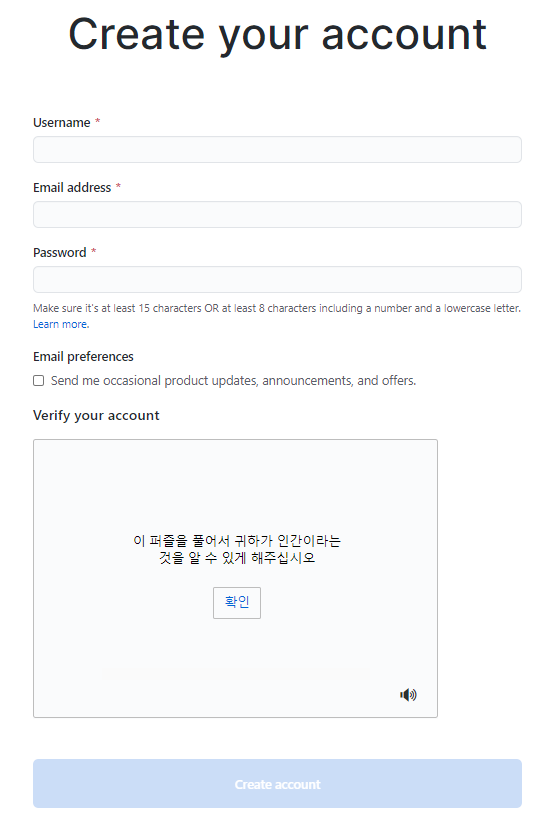
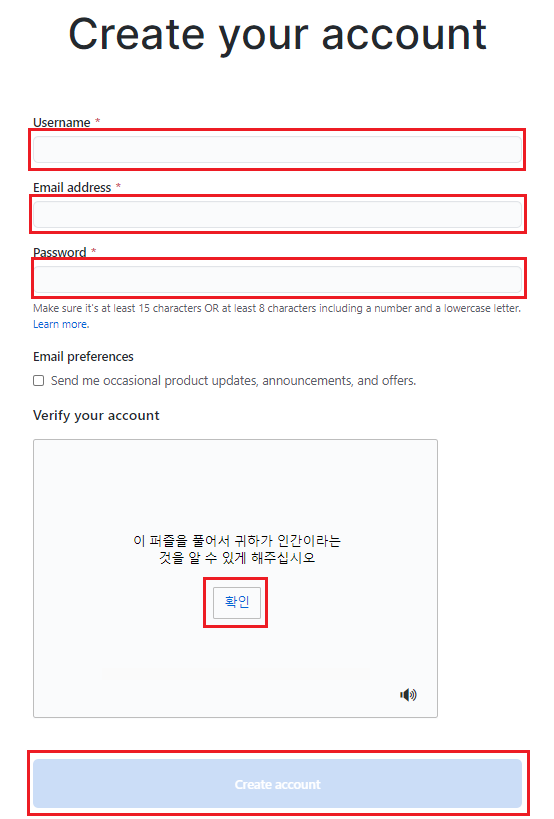
2021-03-10 github 가입하기 추가

diff --git a/_posts/git/2021-03-10-git-3.md b/_posts/git/2021-03-10-git-3.md
@@ -1,0 +1,191 @@
+---
+title: "[Git] Git 기본 명령어"
+categories: git
+tags: git
+toc: true
+---
+
+## Intro
+Git도 설치했고 Github로 원격저장소도 만들었으니 Git bash을 이용하여 기본 명령어들을 사용해보도록 하겠습니다. <br> (명령어는 계속 추가 할 계획 입니다.)
+
+
+## Git 버전 확인 (version)
+```java
+$ git version
+=> git version 2.27.0.windows.1
+```
+
+## Git 도움말 (help)
+```java
+$ git help
+=> usage: git [--version] [--help] [-C <path>] [-c <name>=<value>]
+           [--exec-path[=<path>]] [--html-path] [--man-path] [--info-path]
+           [-p | --paginate | -P | --no-pager] [--no-replace-objects] [--bare]
+           [--git-dir=<path>] [--work-tree=<path>] [--namespace=<name>]
+           <command> [<args>]
+
+These are common Git commands used in various situations:
+
+start a working area (see also: git help tutorial)
+   clone             Clone a repository into a new directory
+   init              Create an empty Git repository or reinitialize an existing one
+
+work on the current change (see also: git help everyday)
+   add               Add file contents to the index
+   mv                Move or rename a file, a directory, or a symlink
+   restore           Restore working tree files
+   rm                Remove files from the working tree and from the index
+   sparse-checkout   Initialize and modify the sparse-checkout
+
+examine the history and state (see also: git help revisions)
+   bisect            Use binary search to find the commit that introduced a bug
+   diff              Show changes between commits, commit and working tree, etc
+   grep              Print lines matching a pattern
+   log               Show commit logs
+   show              Show various types of objects
+   status            Show the working tree status
+
+grow, mark and tweak your common history
+   branch            List, create, or delete branches
+   commit            Record changes to the repository
+   merge             Join two or more development histories together
+   rebase            Reapply commits on top of another base tip
+   reset             Reset current HEAD to the specified state
+   switch            Switch branches
+   tag               Create, list, delete or verify a tag object signed with GPG
+
+collaborate (see also: git help workflows)
+   fetch             Download objects and refs from another repository
+   pull              Fetch from and integrate with another repository or a local branch
+   push              Update remote refs along with associated objects
+
+'git help -a' and 'git help -g' list available subcommands and some
+concept guides. See 'git help <command>' or 'git help <concept>'
+to read about a specific subcommand or concept.
+See 'git help git' for an overview of the system.
+```
+
+## Git 로컬저장소 생성하기 (init)
+```java
+$ git init
+=> Initialized empty Git repository in C:/AksStudio/repository/study/.git/
+```
+- 아래와 같이 해당 폴더에 .git 파일이 생성 됩니다. <br> (해당 폴더가 안보일 경우 폴더 내 숨김옵션 활성화 필요) <br>
+<img src="/assets/images/git/git-17.png">
+
+- .git 폴더에는 Git 생성한 버전들의 정보, 원격저장소 주소 등 설정정보가 있습니다.
+- 통상 이를 "로컬저장소" 라고 부릅니다.
+
+## Git 설정정보 확인 및 변경하기 (config)
+```java
+# 설정 정보 목록 확인
+$ git config --list
+=> diff.astextplain.textconv=astextplain
+filter.lfs.clean=git-lfs clean -- %f
+filter.lfs.smudge=git-lfs smudge -- %f
+filter.lfs.process=git-lfs filter-process
+filter.lfs.required=true
+http.sslbackend=openssl
+http.sslcainfo=C:/Program Files/Git/mingw64/ssl/certs/ca-bundle.crt
+core.autocrlf=true
+core.fscache=true
+core.symlinks=false
+pull.rebase=false
+credential.helper=manager
+filter.lfs.process=git-lfs filter-process
+filter.lfs.required=true
+filter.lfs.clean=git-lfs clean -- %f
+filter.lfs.smudge=git-lfs smudge -- %f
+user.name=Aks
+user.email=45597561+dhk5646@users.noreply.github.com
+core.autocrlf=true
+core.repositoryformatversion=0
+core.filemode=false
+core.bare=false
+core.logallrefupdates=true
+core.symlinks=false
+core.ignorecase=true
+
+# user.email 설정정보 변경 하기
+$ git config --global user.email "dhk5646@gmail.com"
+```
+
+## Git 로컬저장소 소스목록 추가하기 (add)
+
+```java
+# 추가할 간단한 샘플 파일 생성 하기
+echo "# study" >> README.md
+
+# 소스목록 추가하기
+$ git add README.md
+```
+
+## Git 로컬저장소 소스 올리기 (commit)
+```java
+$ git commit -m "커밋 설명"
+=> [master (root-commit) cdf9734] 커밋 설명
+ 1 file changed, 1 insertion(+)
+ create mode 100644 README.md
+```
+- m 옵션은 message
+
+## Git 커밋 이력 확인하기 (log)
+```java
+$ git log
+=> commit cdf9734c95b67ba35ad62d81a194a1eeb57255df (HEAD -> master)
+Author: Aks <dhk5646@gmail.com>
+Date:   Wed Mar 10 22:16:22 2021 +0900
+
+    커밋 설명
+```
+
+## Git 원하는 시점으로 파일 이동하기 (checkout)
+```java
+# 가장 최신 revision 으로 이동
+$ git checkout -
+
+# 원하는 revision 으로 이동
+$ git checkout 리비전정보
+```
+
+## Git 원격저장소 주소 연동 및 끊기 (remote)
+```java
+# 원격저장소 주소 연동 하기
+$ git remote add origin https://github.com/aks0123/study.git
+
+# 원격저장소 주소 연동 끊기
+$ git remote rm origin
+```
+
+
+
+## Git 원격저장소 소스 올리기 (push)
+```java
+$ git push origin master
+=> Enumerating objects: 3, done.
+Counting objects: 100% (3/3), done.
+Writing objects: 100% (3/3), 224 bytes | 224.00 KiB/s, done.
+Total 3 (delta 0), reused 0 (delta 0), pack-reused 0
+To https://github.com/aks0123/study.git
+ * [new branch]      master -> master
+```
+- push 성공 후 깃허브 원격저장소에 커밋 내용 확인 !! 
+<img src="/assets/images/git/git-18.png">
+
+- 잠깐! **remote: Permission to** 오류가 발생했다면 <https://dhk5646.github.io/git/git-4>  참고!
+
+
+## Git 원격저장소 복제하기 (clone)
+```java
+$ git clone 원격저장소 주소 .
+```
+- 가장뒤에 . 은 현재 작업위치를 나타내며 현재 위치에 파일을 풀겠다는 내용입니다.
+- 만약 . 을 입력하지 않을 경우 gitTest/"해당위치에 다운로드됨"
+
+## Git 원격저장소 소스 내려받기 (pull)
+```java
+$ git pull origin master
+```
+- clone 이후 동기화 처리 후 원격저장소에 새로운 커밋이 있을 경우 로컬저장소로 내려받습니다.
+
+

diff --git a/_posts/git/2021-03-09-git-2.md b/_posts/git/2021-03-09-git-2.md
@@ -1,83 +1,35 @@
 ---
-title: "[Git] Git 기본 명령어"
+title: "[Git] 깃허브 (Github) 가입하고 원격저장소 생성하기"
 categories: git
 tags: git
 toc: true
 ---
+## 깃허브 란?
+- https://github.com/
+- Git으로 관리하는 프로젝트를 올려 둘 수 있는 세계 최대 규모의 Git 호스팅 사이트
+- 공개저장소 무료, 비공개 저장소는 작업자 3인 이하 무료, 그 외 유료
 
-## Git 버전 확인 (version)
-```java
-$ git version
-```
+## 깃허브 가입하기
 
-## Git 도움말 (help)
-```java
-$ git help
-```
+1. **https://github.com/join** 접속 
+- **username, Email address, Password** 입력 및 퍼즐 해결 후 **Create account** 클릭 합니다.
+<img src="/assets/images/git/git-10.png">
+2. 아래와 같은 설문에 답하고 **Complete setup** 클릭 합니다.
+<img src="/assets/images/git/git-11.png">
+3. 입력한 이메일로 인증요청 메일이 발송 되었습니다.
+<img src="/assets/images/git/git-12.png">
+4. 이메일 확인하여 **Verify email address** 클릭 하면 회원가입 끝!
+<img src="/assets/images/git/git-13.png">
 
-## Git 로컬저장소 생성하기 (init)
-```java
-$ git init
-```
-- 해당 폴더에 .git 생성되며 Git으로 생성한 버전들의 정보, 원격저장소 주소 등이 들어감
-- 통상적으로 "로컬저장소"라고 부름
+## 깃허브 원격저장소 생성하기
 
-## Git 기본정보 설정하기 (config)
-```java
-$ git config --
-$ git config --global user.email "이메일주소"
-$ git config --global user.name "이름"
-```
+1. 다음으로는 깃허브에 원격저장소를 만들어 보겠습니다. 깃허브 로그인 후 오른쪽 **+** 아이콘 클릭 후 **New repository** 선택합니다.
+<img src="/assets/images/git/git-14.png">
+2. **Repository name** (원격저장소 URL 접속정보로 사용될 값), **Description** (설명) 입력 후 **Public** (무료) 선택 후 **Create repository** 선택 합니다.
+<img src="/assets/images/git/git-15.png">
+3. 생성된 깃허브 원격저장소 주소가 아래와 같이 표시된다면 원격저장소 생성 끝!
+<img src="/assets/images/git/git-16.png">
 
-## Git 로컬저장소 소스목록 추가하기 (add)
-```java
-$ git add 소스명
-```
-
-## Git 로컬저장소 소스 올리기 (commit)
-```java
-$ git commit -m "커밋 내용"
-- m 옵션은 message
-```
-
-## Git 커밋 이력 확인하기 (log)
-```java
-$ git log
-```
-
-## Git 원하는 시점으로 파일 이동하기 (checkout)
-```java
-$ git checkout -
-```
-- 최신 revision으로 이동
-
-```java
-$ git checkout 리비전정보
-```
-- 원하는 revision으로 이동
-
-## Git 원격저장소 주소 연동하기 (remote)
-```java
-$ git remote add origin 원격저장소 주소
-```
-
-## Git 원격저장소 소스 올리기 (push)
-```java
-$ git push origin master
-```
-
-## Git 원격저장소 복제하기 (clone)
-```java
-$ git clone 원격저장소 주소 .
-```
-- 가장뒤에 . 은 현재 작업위치를 나타내며 현재 위치에 파일을 풀겠다는 내용입니다.
-- 만약 . 을 입력하지 않을 경우 gitTest/"해당위치에 다운로드됨"
-
-## Git 원격저장소 소스 내려받기 (pull)
-```java
-$ git pull origin master
-```
-- clone 이후 동기화 처리 후 원격저장소에 새로운 커밋이 있을 경우 로컬저장소로 내려받습니다.
-
-## 계속해서 추가 예정
-
+## 깃허브 원격저장소에 소스 올리기
+1. 원격저장소도 만들었으니 이전 장에서 학습한 명령어를 학습 해 보겠습니다. 먼저 Git bash를 열고 아래 명령어를 입력 합니다.
+<img src="/assets/images/git/git-16.png">

diff --git a/_posts/git/2021-03-10-git-4.md b/_posts/git/2021-03-10-git-4.md
@@ -1,0 +1,39 @@
+---
+title: "[Git] git permission to push error"
+categories: git
+tags: git
+toc: true
+---
+
+## Intro
+git 기본 명령어를 정리하는 과정에서 아래와 같은 오류가 발생하여 따로 정리 합니다. <br>
+기존에 사용 중이던 github 계정정보가 등록되어있어 충돌이 발생 한 듯 합니다.
+
+## 오류 내용
+
+```java
+$ git push origin master
+remote: Permission to aks0123/study.git denied to dhk5646.
+fatal: unable to access 'https://github.com/aks0123/study.git/': The requested URL returned error: 403
+```
+
+## 해결 방법
+1. 제어판 -> 사용자 계정 선택 합니다.
+<img src="/assets/images/git/git-19.png">
+
+2. Window 자격증명 관리 선택 합니다.
+<img src="/assets/images/git/git-20.png">
+
+3. **git:https://github.com** 을 찾아서 제거 합니다.
+<img src="/assets/images/git/git-21.png">
+
+4. git push origin master 수행 시 Github 계정 정보 입력 창 이후 로그인 완료 시 정상적으로 소스가 커밋 됩니다.
+```java
+$ git push origin master
+=> Enumerating objects: 3, done.
+Counting objects: 100% (3/3), done.
+Writing objects: 100% (3/3), 224 bytes | 224.00 KiB/s, done.
+Total 3 (delta 0), reused 0 (delta 0), pack-reused 0
+To https://github.com/aks0123/study.git
+ * [new branch]      master -> master
+```

diff --git a/_posts/git/2021-03-09-git-1.md b/_posts/git/2021-03-09-git-1.md
@@ -1,5 +1,5 @@
 ---
-title: "[Git] Git 정의 및 설치"
+title: "[Git] Git 설치하기"
 categories: git
 tags: git
 toc: true
